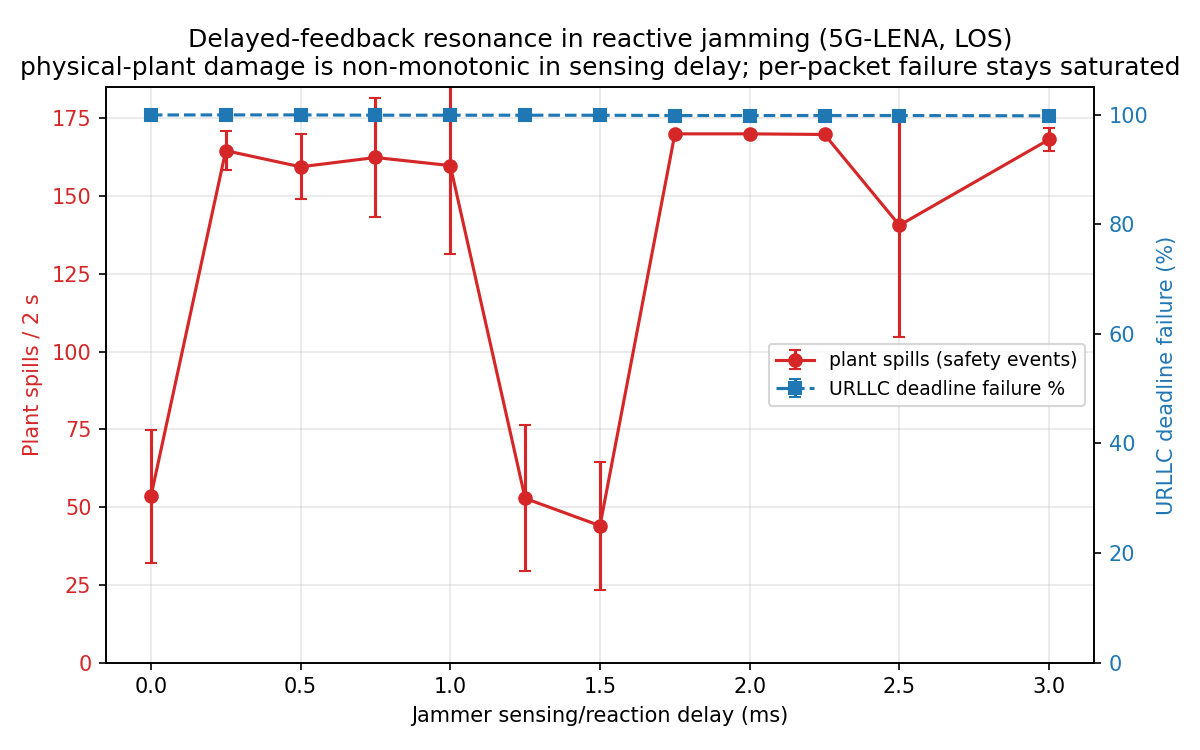
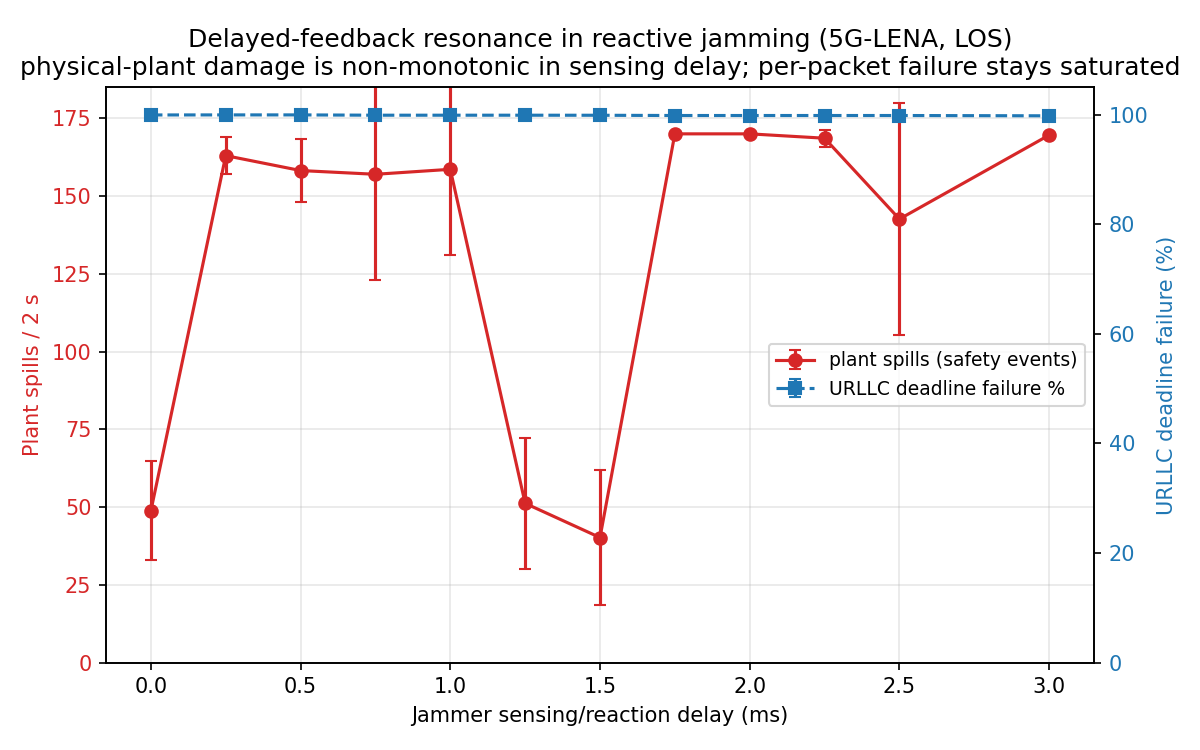
Re-verify delay resonance under slot-cadence OLLA (unchanged)
Re-ran the reaction-delay sweep after the OLLA slot-cadence fix. Resonance is
essentially identical (troughs at ~0 and ~1.25-1.5 ms, plateau ~158-163, bands
170+/-0), so it is a structural property of the reactive control loop, not an
artifact of OLLA's CQI-report quantization. Regenerates the figure from fixed-OLLA data.

diff --git a/scenarios/README.md b/scenarios/README.md
@@ -109,3 +109,13 @@ single draw (`scripts/reconcile-spills.sh`):
 controlled LOS case (single-draw values range 0-108 over the random channel). This is the
 *same order* as SWICS's 110 events, but the precise 108~=110 match was a coincidence of an
 outlier seed and should not be cited as a quantitative correspondence.
+
+### Resonance is robust to the OLLA slot-cadence fix
+
+After moving OLLA offset application from CQI-report instants to every DL slot
+(commit "OLLA: apply offset at DL-scheduling cadence"), the delay sweep was
+re-run. The resonance is essentially unchanged (troughs still at delay ~0 and
+~1.25-1.5 ms; high plateau ~158-163; saturated bands 170+/-0). So the resonance
+is NOT an artifact of OLLA's CQI-cadence quantization -- it is a structural
+property of the reactive jammer<->HARQ<->plant loop. `figures/delay-resonance-5glena.png`
+is regenerated from the fixed-OLLA data.
